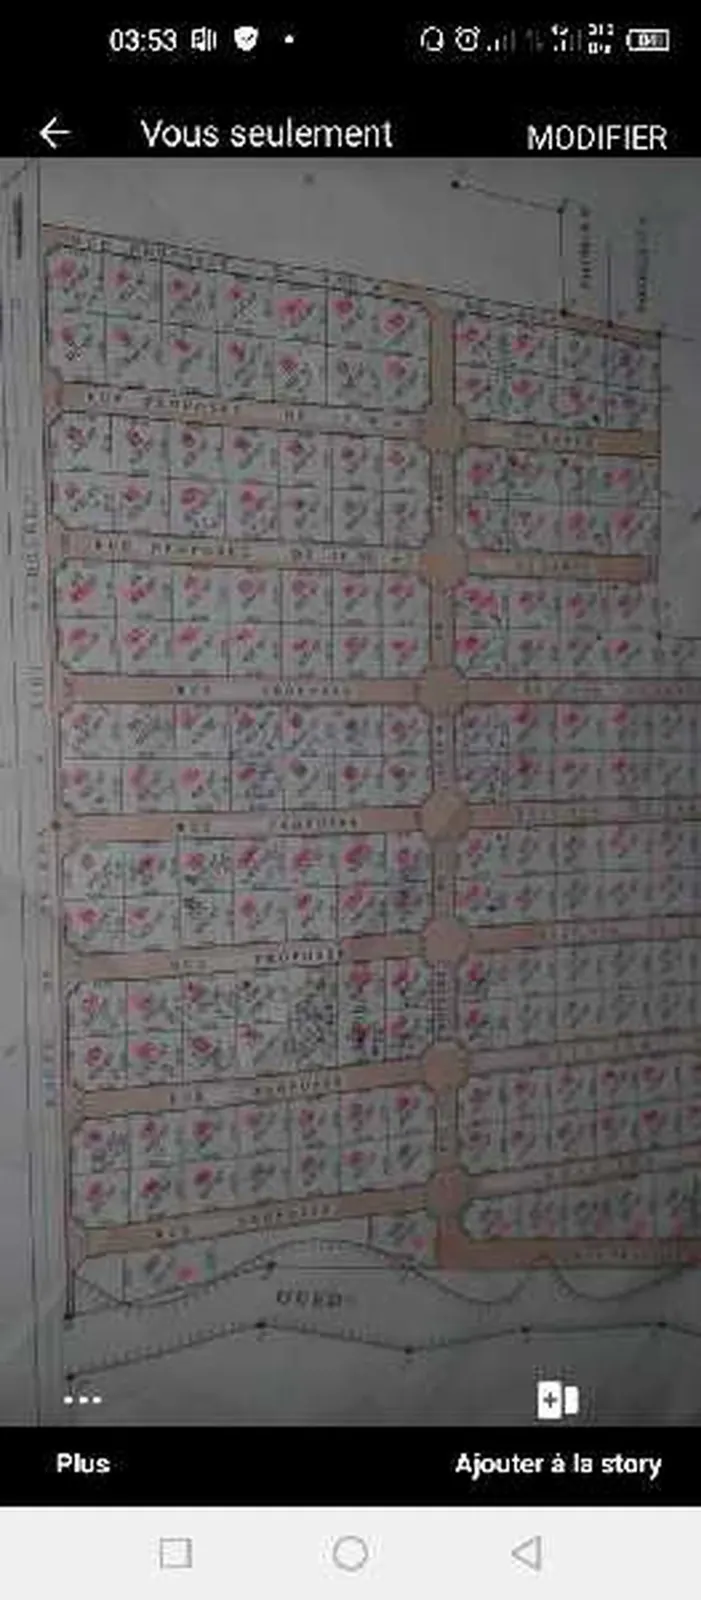
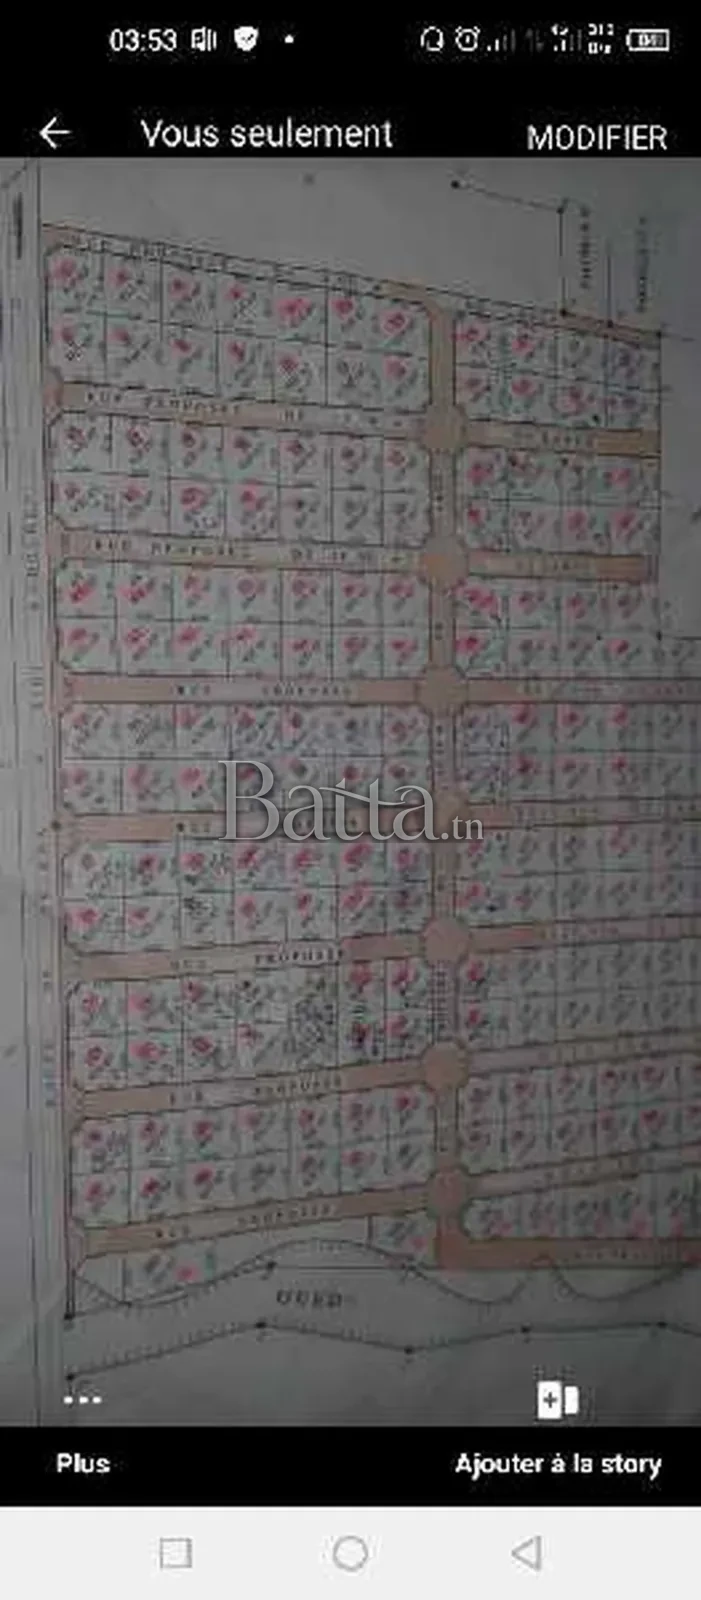
Stamp the wordmark into the 29 photos already published
The watermark shipped in the previous commit only covers NEW uploads — it runs
in the browser on the way to storage. Everything already in the catalogue was
left bare, and those are the photos that have been public longest and are the
likeliest to have been lifted already.

`scripts/watermark-existing-photos.mjs` closes that gap. Every
`listing_photos.storage_path` here is `/properties/<slug>/<n>.webp` — a file
committed to `public/`, not an object in Supabase storage — so it rewrites
files in the working tree and git is the backup. `scripts/watermarked-photos.json`
records what has been done, because nothing in a stamped file says so and a
second run would stamp the stamp.

TWO CORRECTIONS TO THE PREVIOUS COMMIT.

The strength was wrong, and it was wrong because the tool used to choose it was
broken. sharp's `composite({ opacity })` is a no-op in 0.34.5 — opacity 1, 0.5,
0.3 and 0.1 over identical input produce byte-identical output, with no warning
— so every preview rendered to pick the strength was drawn at FULL opacity
while being labelled 22%, 30% and 38%. The comparison measured size, not
weight. Redone with the alpha channel scaled by hand (which is what canvas
`globalAlpha` does anyway), 30% turns out to be much fainter than what was
approved: 45% is where the mark actually reads on a photographed survey plan,
the worst case here. Both the client module and the backfill now use it, and
both explain the trap so the next person does not re-run the same broken
[…]

Changed region(s): [[0.2996, 0.4688, 0.689, 0.5312]]

diff --git a/src/lib/watermark.ts b/src/lib/watermark.ts
@@ -17,11 +17,17 @@
  * mark plus dark shadow is the one combination that survives both an
  * overexposed white survey plan and a dark photo.
  *
+ * WHAT IT SAYS. Both halves of what a stolen photo needs to carry — the
+ * business and where to find it — are already in the wordmark itself, because
+ * the wordmark IS « Batta.tn ». Mazed Auto had to grow a caption under its
+ * monogram to say the same thing; here the logo does it unaided, so there is
+ * nothing to add and adding it would only repeat the domain twice.
+ *
  * WHY THIS STRENGTH. The mark has to survive being stolen, not dominate the
- * photo a seller paid to publish. 30% opacity over 38% of the width reads
- * clearly at full size, stays quiet on a card-sized thumbnail, and is large
- * enough that cropping it out takes the subject with it. Same numbers as Mazed
- * Auto, deliberately: the two sites are judged side by side.
+ * photo a seller paid to publish. 45% opacity over 38% of the width reads at
+ * full size, stays quiet on a card-sized thumbnail, and is large enough that
+ * cropping it out takes the subject with it. Same numbers as Mazed Auto,
+ * deliberately: the two sites are judged side by side.
  *
  * WHY IT IS DRAWN, NOT COMPOSITED SERVER-SIDE. Photos go straight from the
  * browser to storage on a signed URL — the bytes never pass through our
@@ -35,9 +41,9 @@
 /** Fraction of the image's WIDTH the mark spans. */
 const MARK_WIDTH_RATIO = 0.38;
 /** Never smaller than this, or it vanishes on a small upload. */
-const MIN_MARK_PX = 120;
-/** How present the mark is. 0.30 reads at full size, hides on a thumbnail. */
-const MARK_OPACITY = 0.3;
+const MIN_MARK_PX = 160;
+/** How present the mark is. 0.45 reads at full size, hides on a thumbnail. */
+const MARK_OPACITY = 0.45;
 /** The trimmed wordmark — white on transparent, ~3.3:1. */
 const MARK_SRC = "/logo-mark.webp";
 
